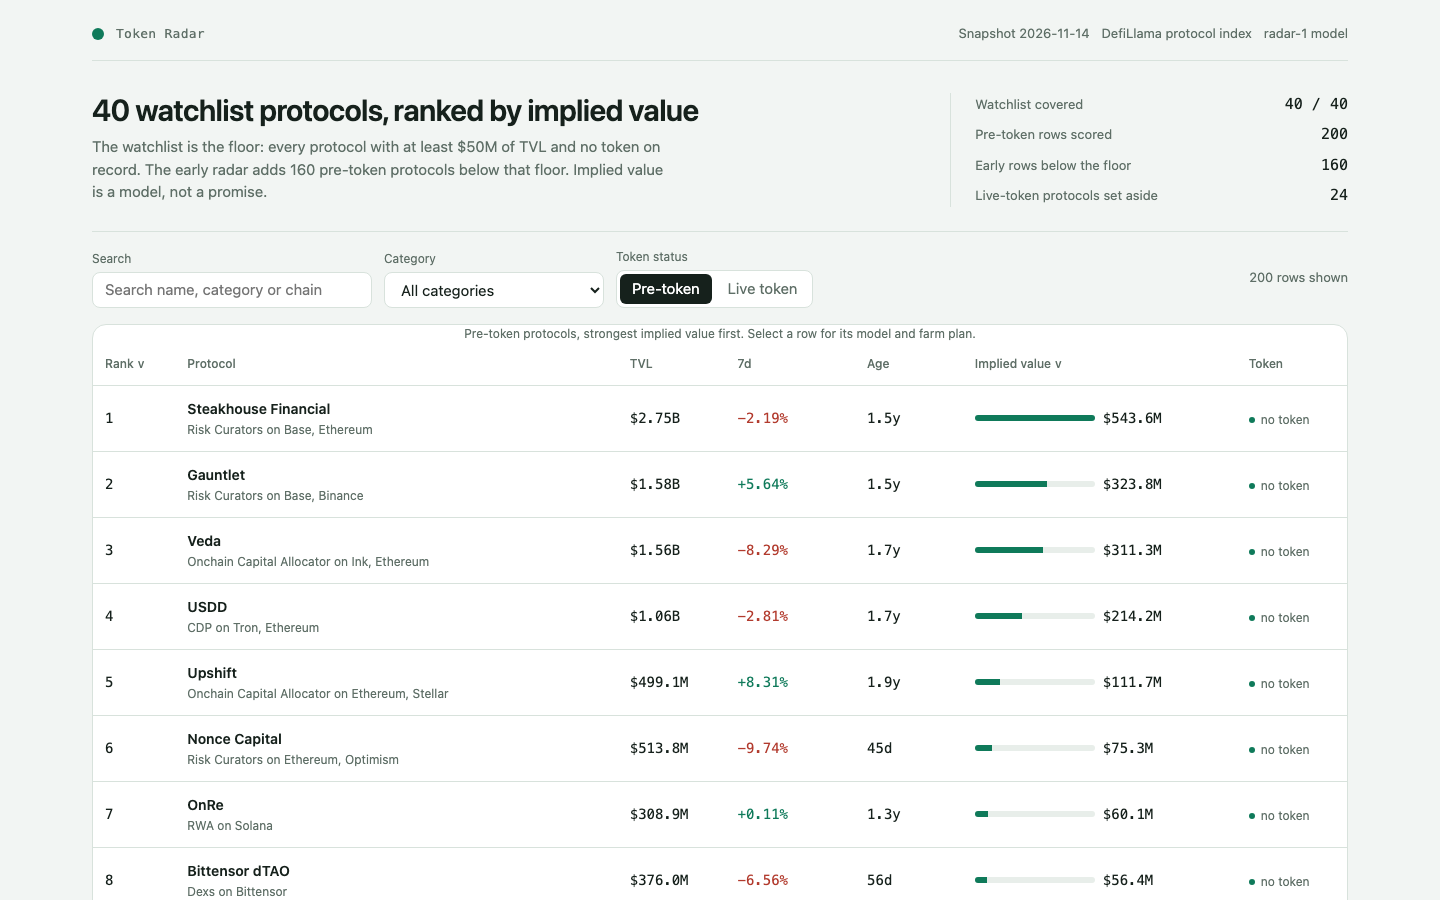
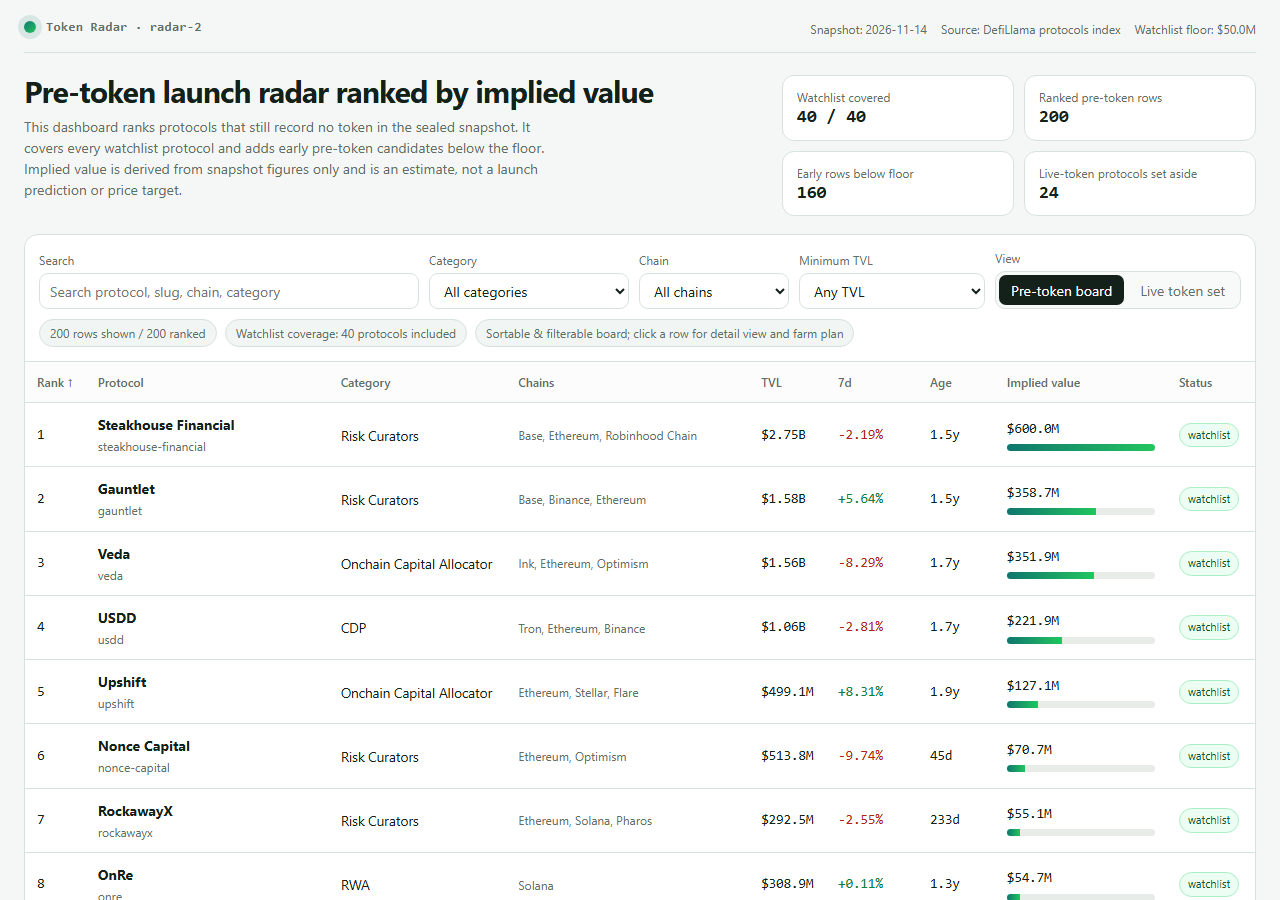
Track watchlist coverage and early finds in board and detail views

diff --git a/dashboard/app.js b/dashboard/app.js
@@ -207,7 +207,8 @@
       el('section', { class: 'sec' },
         el('h3', { text: 'Protocol facts (from snapshot)' }),
         el('div', { class: 'kv' },
-          kv('Slug', r.slug), kv('Market cap recorded', r.mcap_usd == null ? 'none (pre-token)' : fmtUsd(r.mcap_usd)),
+          kv('Slug', r.slug), kv('Watchlist', r.on_watchlist ? 'yes (must-cover)' : 'no (early find below floor)'),
+          kv('Market cap recorded', r.mcap_usd == null ? 'none (pre-token)' : fmtUsd(r.mcap_usd)),
           kv('Token symbol/id', (r.symbol || r.gecko_id) ? ((r.symbol || '-') + ' / ' + (r.gecko_id || '-')) : 'none recorded'), kv('Snapshot as of', DATA.as_of)
         )
       )
@@ -232,7 +233,7 @@
         el('td', { class: 'num ' + (r.change_7d == null ? '' : r.change_7d >= 0 ? 'pos' : 'neg') }, fmtPct(r.change_7d)),
         el('td', { class: 'num' }, fmtAge(r.age_days)),
         el('td', { class: 'barcell' }, el('div', { class: 'num' }, fmtUsd(r.implied_value_usd)), el('div', { class: 'bar' }, el('i', { style: 'width:' + Math.max(3, Math.round((r.implied_value_usd / max) * 100)) + '%' }))),
-        el('td', null, el('span', { class: 'badge' }, 'pre-token'))
+        el('td', null, el('span', { class: r.on_watchlist ? 'badge watch' : 'badge early' }, r.on_watchlist ? 'watchlist' : 'early find'))
       );
       tb.appendChild(tr);
     });
@@ -284,7 +285,13 @@
 
     var panel = el('section', { class: 'panel' });
     var q = el('input', { type:'search', value: state.q, placeholder:'Search protocol, slug, chain, category' });
-    q.addEventListener('input', function () { state.q = q.value; syncHash(); render(); });
+    q.addEventListener('input', function () {
+      state.q = q.value;
+      var caret = q.selectionStart == null ? q.value.length : q.selectionStart;
+      syncHash(); render();
+      var next = root.querySelector('input[type="search"]');
+      if (next) { next.focus(); try { next.setSelectionRange(caret, caret); } catch (e) {} }
+    });
     var cat = el('select');
     cat.appendChild(el('option', { value:'all', text:'All categories' }));
     categories().forEach(function (c) { var o = el('option', { value:c, text:c }); if (state.category===c) o.selected=true; cat.appendChild(o); });

diff --git a/lib/model.ts b/lib/model.ts
@@ -125,6 +125,7 @@ export interface RadarRow {
   maturity_multiplier: number;
   chain_multiplier: number;
   category_multiplier: number;
+  on_watchlist: boolean;
 }
 
 /** A live-token protocol: it already trades, so the board shows the market's own value, not a model's. */
@@ -146,6 +147,7 @@ export interface RadarData {
   model: ModelConstants;
   model_version: string;
   watchlist_size: number;
+  watchlist: string[];
   board_size: number;
   early_size: number;
   live_size: number;
@@ -406,7 +408,7 @@ export function liveRows(snapshot: Snapshot): LiveRow[] {
 }
 
 /** A board row's compact form for data.js, with the farm plan generated in the page. */
-export function radarRow(row: BoardRow): RadarRow {
+export function radarRow(row: BoardRow, watchlist: string[]): RadarRow {
   return {
     rank: row.rank,
     slug: row.slug,
@@ -423,6 +425,7 @@ export function radarRow(row: BoardRow): RadarRow {
     maturity_multiplier: row.model.maturity_multiplier,
     chain_multiplier: row.model.chain_multiplier,
     category_multiplier: row.model.category_multiplier,
+    on_watchlist: watchlist.includes(row.slug),
   };
 }
 
@@ -438,10 +441,11 @@ export function buildRadar(snapshot: Snapshot, model: ModelConstants = MODEL): {
     model,
     model_version: MODEL_VERSION,
     watchlist_size: snapshot.watchlist.length,
+    watchlist: snapshot.watchlist,
     board_size: board.length,
     early_size: early,
     live_size: live.length,
-    rows: board.map(radarRow),
+    rows: board.map((row) => radarRow(row, snapshot.watchlist)),
     live,
   };
   return { board, radar };

diff --git a/dashboard/app.css b/dashboard/app.css
@@ -65,6 +65,8 @@ td.wrap { white-space:normal; min-width:240px; }
 .neg { color:var(--bad); }
 .badge { display:inline-flex; align-items:center; padding:3px 8px; border-radius:999px; font-size:11px; border:1px solid var(--border); background:#f7faf8; color:var(--muted); }
 .badge.live { color:var(--warn); background:#fff7ed; border-color:#fed7aa; }
+.badge.watch { color:#0f5132; background:#ecfdf3; border-color:#abefc6; }
+.badge.early { color:#1e40af; background:#eff6ff; border-color:#bfdbfe; }
 .barcell { min-width:170px; }
 .bar { height:7px; background:#e7ece9; border-radius:999px; overflow:hidden; margin-top:5px; }
 .bar i { display:block; height:100%; background:linear-gradient(90deg,var(--accent),#22c55e); }
